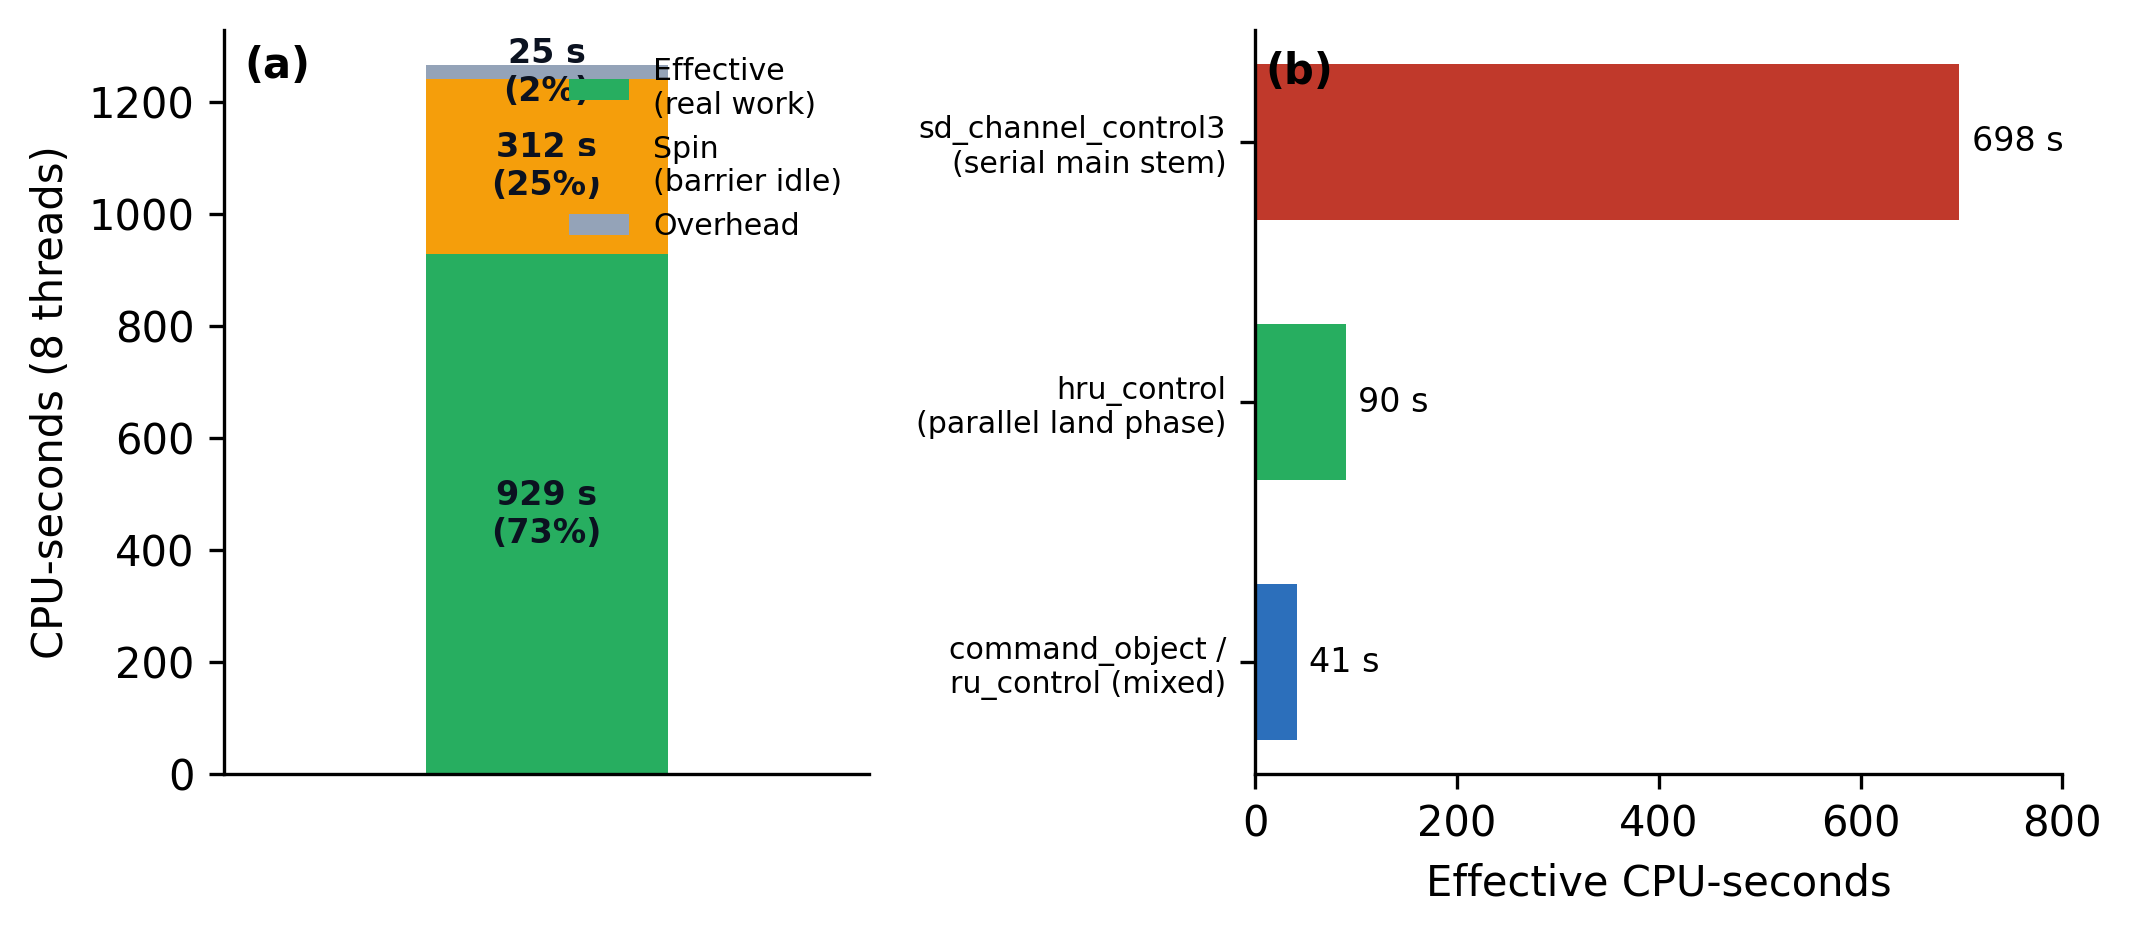
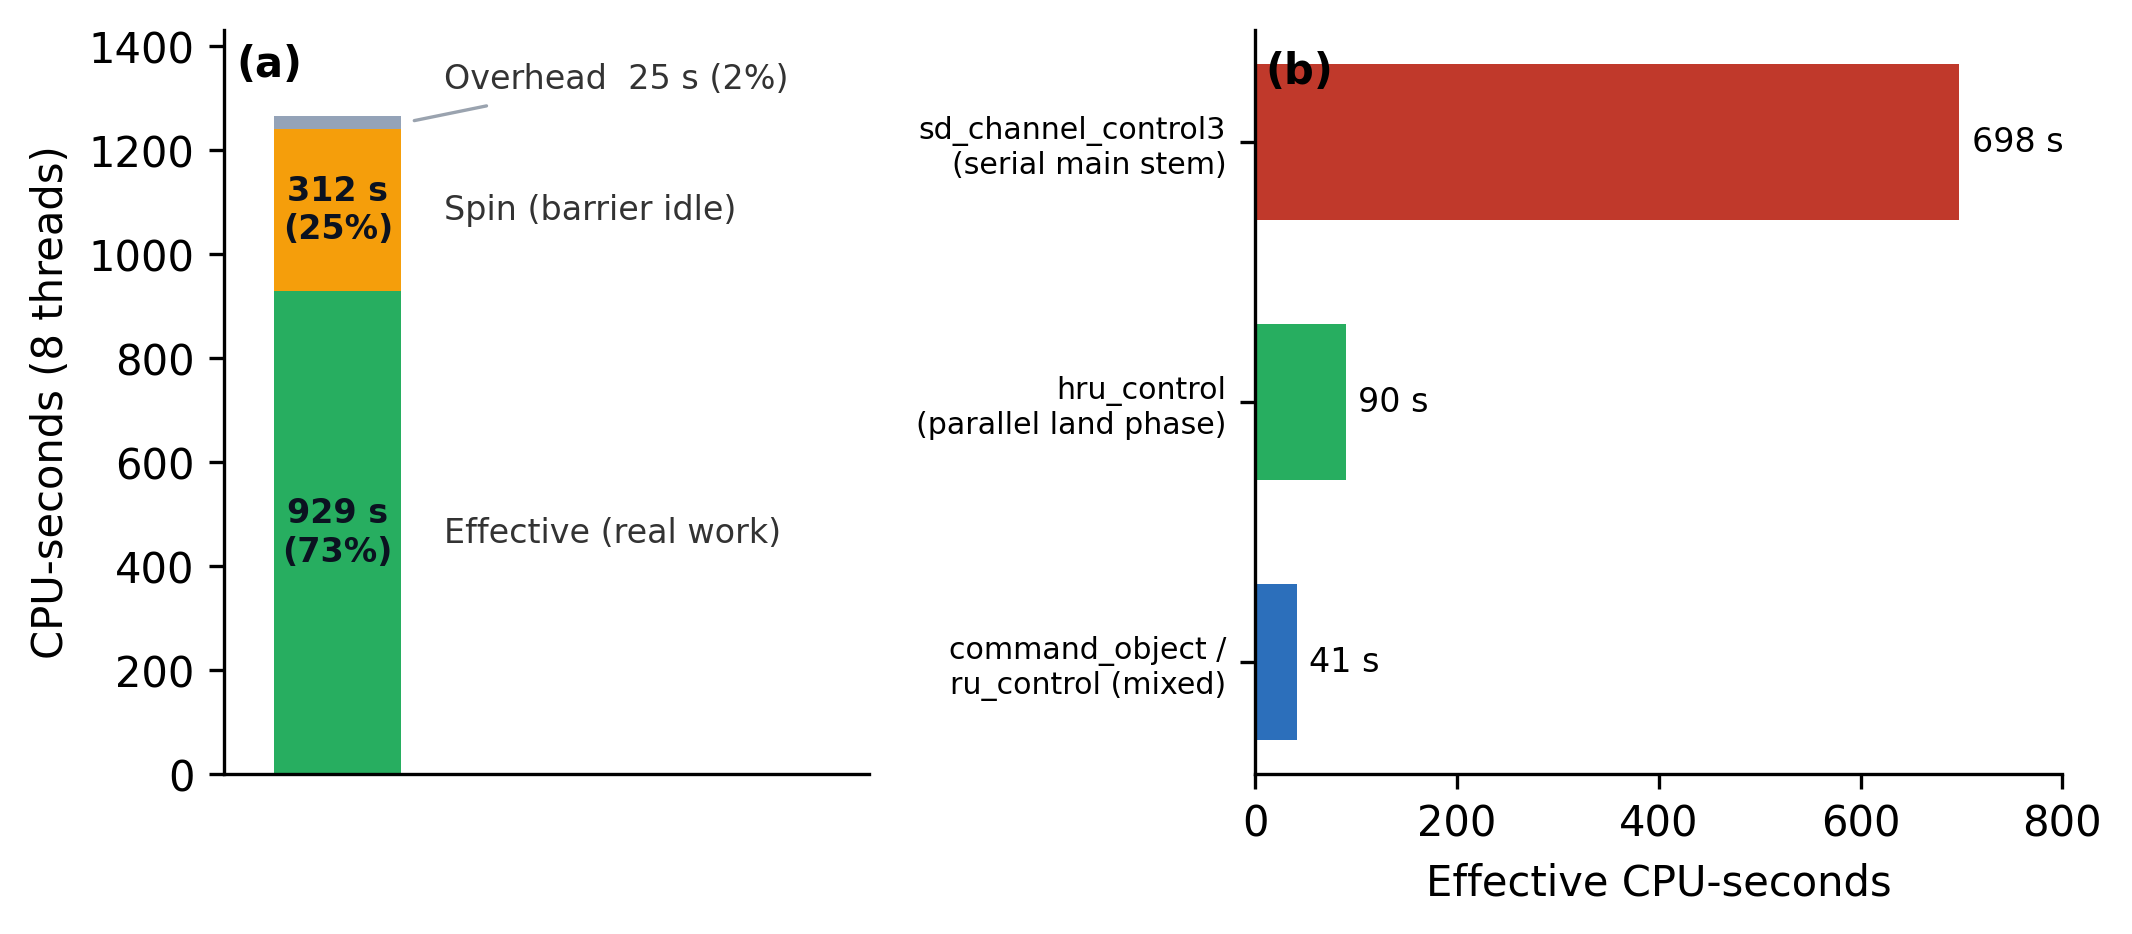
Fix Figure 4 panel (a): label segments directly, remove overlapping legend

diff --git a/make_figures.py b/make_figures.py
@@ -157,20 +157,35 @@ print("WROTE", os.path.join(FIGDIR, "Figure_2.png"))
 # =====================================================================
 fig, (axL, axR) = plt.subplots(1, 2, figsize=(7.2, 3.2), gridspec_kw={"width_ratios": [1, 1.25]})
 
-# left: stacked composition
-comp = [("Effective\n(real work)", 929, "#27ae60"),
-        ("Spin\n(barrier idle)", 312, "#f59e0b"),
+# left: stacked composition, each segment labelled to the right (no legend -> no overlap)
+comp = [("Effective (real work)", 929, "#27ae60"),
+        ("Spin (barrier idle)", 312, "#f59e0b"),
         ("Overhead", 25, "#94a3b8")]
+total = sum(s for _, s, _ in comp)
 bottom = 0
+centers = {}
 for label, sec, col in comp:
-    axL.bar(0, sec, bottom=bottom, width=0.6, color=col, label=label)
-    axL.text(0, bottom + sec/2, f"{sec} s\n({round(100*sec/1266)}%)", ha="center", va="center",
-             fontsize=8, color="#0b1220", fontweight="bold")
+    axL.bar(0, sec, bottom=bottom, width=0.5, color=col)
+    centers[label] = bottom + sec / 2
     bottom += sec
-axL.set_xlim(-0.8, 0.8); axL.set_xticks([])
+secmap = {l: s for l, s, _ in comp}
+# bold value inside the two large segments
+for label in ("Effective (real work)", "Spin (barrier idle)"):
+    axL.text(0, centers[label], f"{secmap[label]} s\n({round(100*secmap[label]/total)}%)",
+             ha="center", va="center", fontsize=8, color="#0b1220", fontweight="bold")
+# name labels to the right; tiny overhead slice gets a leader line + inline value
+label_y = {"Effective (real work)": centers["Effective (real work)"],
+           "Spin (barrier idle)": centers["Spin (barrier idle)"],
+           "Overhead": total + 70}
+for label, sec, col in comp:
+    arrow = dict(arrowstyle="-", color="#9aa3af", lw=0.8) if label == "Overhead" else None
+    txt = label if label != "Overhead" else f"Overhead  {sec} s ({round(100*sec/total)}%)"
+    axL.annotate(txt, xy=(0.27, centers[label]), xytext=(0.42, label_y[label]),
+                 va="center", ha="left", fontsize=8, color="#333", arrowprops=arrow)
+axL.set_xlim(-0.45, 2.1); axL.set_xticks([])
+axL.set_ylim(0, total * 1.13)
 axL.set_ylabel("CPU-seconds (8 threads)")
-axL.legend(frameon=False, fontsize=7.2, loc="upper right")
-axL.text(-0.75, axL.get_ylim()[1]*0.98, "(a)", fontsize=10, fontweight="bold", va="top")
+axL.text(-0.4, total * 1.11, "(a)", fontsize=10, fontweight="bold", va="top")
 
 # right: effective work by routine
 rt = [("sd_channel_control3\n(serial main stem)", 698, "#c0392b"),